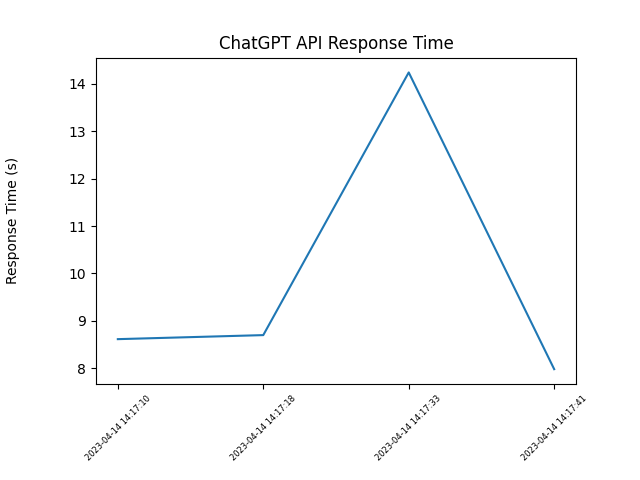
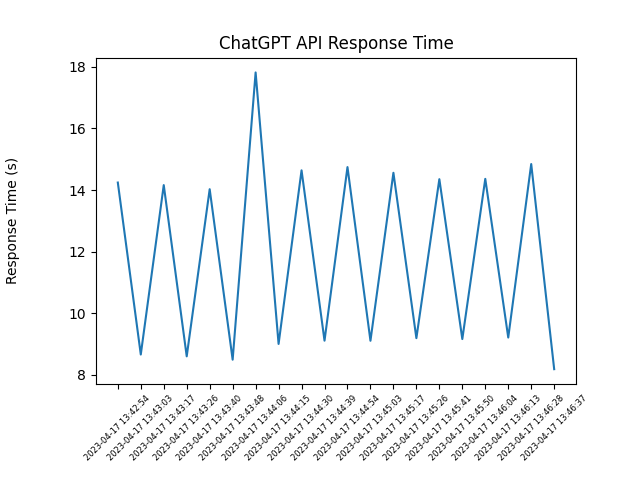
Added context trimming.

diff --git a/src/main.py b/src/main.py
@@ -73,6 +73,8 @@ class ChatGptSmartClient(object):
     read more on that here: https://platform.openai.com/docs/guides/chat .
     """
 
+    CONTEXT_TOKEN_LIMIT = 4000
+
     def __init__(self, api_key: str, model: str, log_info: bool=False):
         openai.api_key = api_key
 
@@ -89,6 +91,10 @@ class ChatGptSmartClient(object):
         self.rsp_tstamp_list = []
         self.total_token_cnt_list = []
 
+        self.rspid_vs_tottokens_dict = {}
+
+        self.total_token_cnt = 0 
+
         self.log_info = log_info
         self.logger = logging.getLogger("chatgptlogger")
         self.logger.setLevel(logging.INFO)
@@ -104,6 +110,9 @@ class ChatGptSmartClient(object):
 
         query = {"role": "user", "content": query}
         rsp_id = None
+
+        if sum(self.total_token_cnt_list) >= self.CONTEXT_TOKEN_LIMIT:
+            self.trim_conversation()
 
         if w_context:
             msgs = self.prev_msgs[:]
@@ -126,13 +135,20 @@ class ChatGptSmartClient(object):
         self.rsp_time_list.append(end_time - start_time)
         self.total_token_cnt_list.append(tot_token_cnt)
 
+        self.total_token_cnt += tot_token_cnt
+
+
         if self.log_info:
-            self.logger.info(f"The total token count currently is {sum(self.total_token_cnt_list)}")
+            self.logger.info(f"The total token count currently is {self.total_token_cnt}")
 
         if add_to_context:
+            self.prev_msgs.append(query)
             self.prev_msgs.append(f_resp)
             self.rsp_id += 1
             rsp_id = self.rsp_id
+            self.rspid_vs_tottokens_dict[self.rsp_id] = tot_token_cnt
+
+        #print(self.prev_msgs)
 
         return f_resp, rsp_id
 
@@ -163,7 +179,7 @@ class ChatGptSmartClient(object):
         self.rsp_id = len(self.prev_msgs)
     
     def print_metrics(self):
-        self.logger.info(f"The total tokens used up-till now is: {sum(self.total_token_cnt_list)}")
+        self.logger.info(f"The total tokens used up-till now is: {self.total_token_cnt}")
         self.logger.info(f"The average response time is: {sum(self.rsp_time_list)/len(self.rsp_time_list)} sec")
 
         self.plot_rsp_times()
@@ -218,7 +234,7 @@ class ChatGptSmartClient(object):
                 jout = json.dumps(ddict) + '\n'
                 out.write(jout)
     
-    def load_context_from_a_file(self, file):
+    def load_context_from_a_file(self, filename):
 
         sjsonl = '.jsonl'
 
@@ -228,8 +244,17 @@ class ChatGptSmartClient(object):
         
         self.prev_msgs = []
         
-        with open(file, encoding='utf-8') as json_file:
+        with open(filename, encoding='utf-8') as json_file:
             for line in json_file.readlines():
                 self.prev_msgs.append(line)
 
         return self.prev_msgs
+
+    def trim_conversation(self):
+        while sum(self.total_token_cnt_list) >= self.CONTEXT_TOKEN_LIMIT:
+
+            del  self.total_token_cnt_list[0]
+            del self.prev_msgs[1]
+            del self.prev_msgs[2]
+        
+        print(f"Trimmed the context list to length: {sum(self.total_token_cnt_list)}")

diff --git a/tests/main.py b/tests/main.py
@@ -73,6 +73,8 @@ class ChatGptSmartClient(object):
     read more on that here: https://platform.openai.com/docs/guides/chat .
     """
 
+    CONTEXT_TOKEN_LIMIT = 4000
+
     def __init__(self, api_key: str, model: str, log_info: bool=False):
         openai.api_key = api_key
 
@@ -89,6 +91,10 @@ class ChatGptSmartClient(object):
         self.rsp_tstamp_list = []
         self.total_token_cnt_list = []
 
+        self.rspid_vs_tottokens_dict = {}
+
+        self.total_token_cnt = 0 
+
         self.log_info = log_info
         self.logger = logging.getLogger("chatgptlogger")
         self.logger.setLevel(logging.INFO)
@@ -104,6 +110,9 @@ class ChatGptSmartClient(object):
 
         query = {"role": "user", "content": query}
         rsp_id = None
+
+        if sum(self.total_token_cnt_list) >= self.CONTEXT_TOKEN_LIMIT:
+            self.trim_conversation()
 
         if w_context:
             msgs = self.prev_msgs[:]
@@ -126,13 +135,20 @@ class ChatGptSmartClient(object):
         self.rsp_time_list.append(end_time - start_time)
         self.total_token_cnt_list.append(tot_token_cnt)
 
+        self.total_token_cnt += tot_token_cnt
+
+
         if self.log_info:
-            self.logger.info(f"The total token count currently is {sum(self.total_token_cnt_list)}")
+            self.logger.info(f"The total token count currently is {self.total_token_cnt}")
 
         if add_to_context:
+            self.prev_msgs.append(query)
             self.prev_msgs.append(f_resp)
             self.rsp_id += 1
             rsp_id = self.rsp_id
+            self.rspid_vs_tottokens_dict[self.rsp_id] = tot_token_cnt
+
+        #print(self.prev_msgs)
 
         return f_resp, rsp_id
 
@@ -163,7 +179,7 @@ class ChatGptSmartClient(object):
         self.rsp_id = len(self.prev_msgs)
     
     def print_metrics(self):
-        self.logger.info(f"The total tokens used up-till now is: {sum(self.total_token_cnt_list)}")
+        self.logger.info(f"The total tokens used up-till now is: {self.total_token_cnt}")
         self.logger.info(f"The average response time is: {sum(self.rsp_time_list)/len(self.rsp_time_list)} sec")
 
         self.plot_rsp_times()
@@ -187,7 +203,6 @@ class ChatGptSmartClient(object):
         plt.subplots_adjust(bottom=0.2, left=0.15)
 
         plt.xticks(rotation=45, fontsize=6)
-
 
         # Save the figure as a PNG file
         plt.savefig("response_times.png")
@@ -234,3 +249,12 @@ class ChatGptSmartClient(object):
                 self.prev_msgs.append(line)
 
         return self.prev_msgs
+
+    def trim_conversation(self):
+        while sum(self.total_token_cnt_list) >= self.CONTEXT_TOKEN_LIMIT:
+
+            del  self.total_token_cnt_list[0]
+            del self.prev_msgs[1]
+            del self.prev_msgs[2]
+        
+        print(f"Trimmed the context list to length: {sum(self.total_token_cnt_list)}")

diff --git a/tests/test_main.py b/tests/test_main.py
@@ -1,4 +1,4 @@
-api_key = "your_api_key"
+api_key = "api_key"
 model_name = "gpt-3.5-turbo"
 
 from main import ChatGptSmartClient
@@ -6,7 +6,7 @@ from main import ChatGptSmartClient
 
 chatgptsmtclient = ChatGptSmartClient(api_key=api_key, model=model_name, log_info=True)
 
-for _ in range(2):
+for _ in range(10):
     chatgptsmtclient.query("List the top 10 upcoming startups in India?")
     chatgptsmtclient.query("Ok thanks, can you giv me the valuation of these startups in tabuar format")
 

diff --git a/README.md b/README.md
@@ -27,7 +27,15 @@ response  = chatgpt_client.query(prompt, w_context=True, add_to_context=False)
 ```
 
 ## Features
-We currently have the features of
+
+
+- [x] Save Conversations to a file
+- [x] Resume conversations by loading context from a file. 
+- [x] Retry logic in case of API failures.
+- [x] Regular Trimming of context to 4000 tokens so that limit of 4097 is not breached. 
+- [x] Total token and token vs time metric. 
+
+
 - Retries: This is incase of failures like connection based request exceptions, API errors.
 ```
     (openai) C:\Users\Srinivas\OneDrive\Desktop\StartupSearchGPT\tests>python test_main.py
@@ -39,6 +47,9 @@ We currently have the features of
     Retrying after 12 seconds...
     Error occurred: API error , please try later
 ``` 
+- Context trimming: Context is trimmed as needed when the limit breaches 4000 tokens. 
+![Trimming and printing metrics](printed_metrics.png)
+
 - Tracking metrics such as average time per response and total token usage.
 ```
     04-10-2023 10:26:44 | INFO | The time taken for this response is : 7.85 seconds
